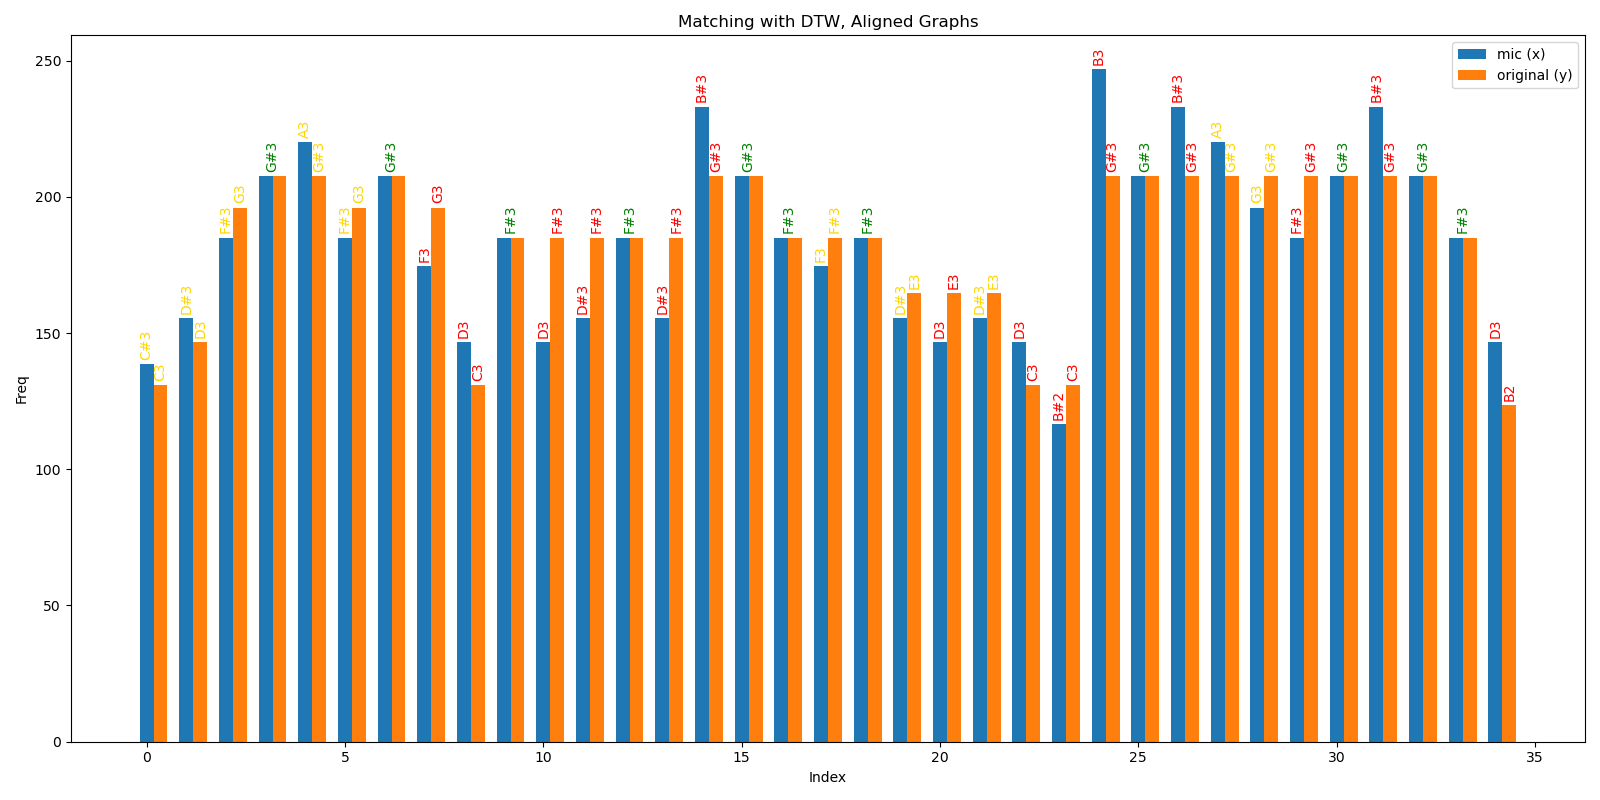
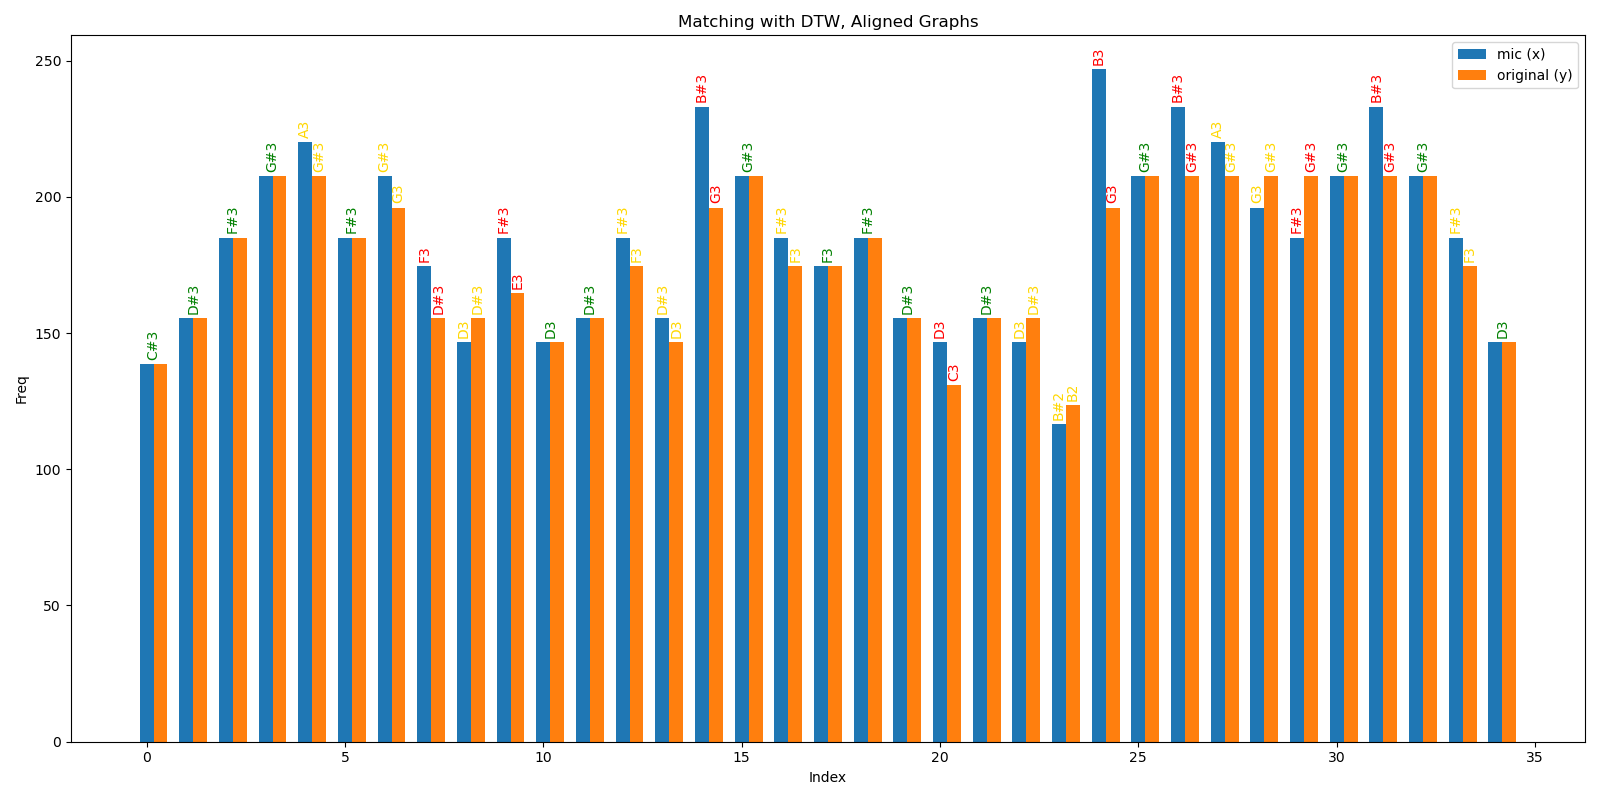
fixed show history bugs

diff --git a/main.py b/main.py
@@ -302,10 +302,10 @@ class OutOfTune:
             # self.rate_mic = int(fileData.sampleRate)
             # self.buffer_size = int(self.rate_mic * fileData.durationToProcess)
 #            self.newMicSOngName = fileData.songName + 'Mic'
-            self.newMicSOngName = fileData.songName + generate_random_id()
+            self.newMicSOngName = fileData.songName + self.dbAccess.getUserIdStr() + generate_random_id()
 
             self.songName = fileData.songName
-            self.origWAVName = fileData.songName.strip('_')[0]
+            self.origWAVName = self.newMicSOngName.split('_')[0]
             dictFromArchivedSong = fileData.notesDict
         elif type(fileData) is str:
             # self.songName = fileData + 'Mic'
@@ -350,11 +350,11 @@ class OutOfTune:
 
                 dtwElements, score = compare2Songs(self.getFreqsAndTimeFromSong(archivedSongName), freqsAndTime)
                 performanceId = micSongName[-10:]
-                songName = micSongName[:-10]
+                songNameWithUserName = micSongName[:-10]
 
                 dtw_lst = list(dtwElements.keys())
                 str_dtw_lst = [(str(element[0]), str(element[1])) for element in dtw_lst]
-                self.dbAccess.add_performance_for_existing_user_and_song(freqsAndTime, songName,
+                self.dbAccess.add_performance_for_existing_user_and_song(freqsAndTime, songNameWithUserName,
                                                                          performanceId, str_dtw_lst, score)
                 self.hearClips(dtwElements)
 
@@ -517,7 +517,7 @@ class OutOfTune:
 
     def read_from_wav(self, fileName, printGraph, saveFile):
         try:
-            songName = fileName.split('/')[-1].split('.')[0] + self.dbAccess.getUserIdStr()
+            songName = fileName.split('/')[-1].split('.')[0]
             sr, y = wavfile.read(fileName)
 
             seconds, frequency, confidence, _ = self.runCrepePrediction(y, sr)
@@ -618,10 +618,11 @@ class OutOfTune:
             songName = songsDict[songNumOrStr]
         else:
             songName = songNumOrStr
-        if songName.lower() == 'none' or songName == '':
+        songNameWithoutUserName = songName.split('_')[0]
+        if songName.lower() == 'none' or songNameWithoutUserName == '':
             return None
-        if checkIfSongDataExists(songName) and self.dbAccess.checkIfSongDataExists(songName):
-            fileData = getSongData(songName, False, self)
+        if checkIfSongDataExists(songNameWithoutUserName) and self.dbAccess.checkIfSongDataExists(songName):
+            fileData = getDataFromFile(songNameWithoutUserName)
             return fileData
         else:
             print("Song does not exists!")
@@ -683,6 +684,9 @@ class OutOfTune:
     def fetchAllPerformances(self, songName):
         return self.dbAccess.fetchPerformancesFromUser(songName)
 
+    def fetchAllSongsForUser(self):
+        return self.dbAccess.fetchSongsFromUser()
+
     def compareOldSongs(self, archivedName, performanceObject):
         performanceId = performanceObject["_id"]
         performanceSongName = performanceObject["song_name"] + performanceId
@@ -693,11 +697,13 @@ class OutOfTune:
         dtw_path = [(int(x[0]), int(x[1])) for x in dtw_path_str]
         performanceFreqsAndSeconds = performanceObject["performance_notes_dict"]
 
-        x = [float(x) for x in performanceFreqsAndSeconds.values()]
-        xTime = [float(x) for x in performanceFreqsAndSeconds.keys()]
-        y = [x for x in origFreqsAndSeconds.values()]
-        yTime = [x for x in origFreqsAndSeconds.keys()]
+        y = np.array([float(x) for x in performanceFreqsAndSeconds.values()])
+        yTime = [float(x) for x in performanceFreqsAndSeconds.keys()]
+        x = np.array([x for x in origFreqsAndSeconds.values()])
+        xTime = [x for x in origFreqsAndSeconds.keys()]
 
+        self.origWAVName = archivedName
+        self.newMicSOngName = performanceSongName
         alignedDTWBarPlot(x, y, dtw_path)
 
         infoDict = {}
@@ -713,23 +719,23 @@ class OutOfTune:
         return dataFile.notesDict
 
 
-def getSongData(file, printBool, oot1):
-    songName = file.split('.')[0]
+    def getSongData(self, file, printBool, oot1):
+        songName = file.split('.')[0]
 
-    # If the song hadn't been analyzed
-    #if not oot1.dbAccess.checkIfSongDataExists(songName):
-    # if not checkIfSongDataExists(songName):
-    #     wavPath = getSongWavPath(file)
-    #     oot1.read_from_wav(wavPath, printBool, True)
-    #     oot1.dbAccess.addSongForUser(songName)
+        # If the song hadn't been analyzed
+        #if not oot1.dbAccess.checkIfSongDataExists(songName):
+        # if not checkIfSongDataExists(songName):
+        #     wavPath = getSongWavPath(file)
+        #     oot1.read_from_wav(wavPath, printBool, True)
+        #     oot1.dbAccess.addSongForUser(songName)
 
-    wavPath = getSongWavPath(file)
-    oot1.read_from_wav(wavPath, printBool, True)
-    oot1.dbAccess.addSongForUser(songName)
+        wavPath = getSongWavPath(file)
+        oot1.read_from_wav(wavPath, printBool, True)
+        oot1.dbAccess.addSongForUser(songName + self.dbAccess.getUserIdStr())
 
-    fileData = getDataFromFile(songName)
-    print("Got data from file")
-    return fileData
+        fileData = getDataFromFile(songName)
+        print("Got data from file")
+        return fileData
 
 
 def listToString(freqList):

diff --git a/db_persistence_layer.py b/db_persistence_layer.py
@@ -103,9 +103,9 @@ def fetch_user_performance(db, performance_id):
     # Dan: this object is for the user-performances-table (which is inside the OOT_database, which is inside the OOT_Cluster, which is inside MongoDB)
     user_performances = db.user_performances
     # Dan: here we fetch a user_performance from the 'user_performances' collection
-    print('\n### FETCHING: Fetching ID #', performance_id, ' from  table user_performances ...')
+    #print('\n### FETCHING: Fetching ID #', performance_id, ' from  table user_performances ...')
     fetched_data = user_performances.find_one({"_id": performance_id})
-    print('\n### FETCHED: successfuly fetched the following - ', fetched_data)
+    #print('\n### FETCHED: successfuly fetched the following - ', fetched_data)
     return fetched_data
 
 def does_user_exist(db, user_id):
@@ -121,9 +121,9 @@ def does_user_exist(db, user_id):
 
 def fetch_every_song_sang_by_user(db, user_id):
     songs_of_user = db.songs_of_user
-    print('\n### FETCHING: Fetching every song sang by', user_id, '...')
+    #print('\n### FETCHING: Fetching every song sang by', user_id, '...')
     fetched_data = list(songs_of_user.find({"_id": {"$regex": '_' + user_id}}))
-    print('\n### FETCHED: successfuly fetched every song which was sang by', user_id, ':\n', fetched_data)
+    #print('\n### FETCHED: successfuly fetched every song which was sang by', user_id, ':\n', fetched_data)
     return fetched_data
 
 
@@ -133,11 +133,11 @@ def fetch_every_user_performance(db, song_name, user_id):
     songs_of_user = fetch_song_of_user(db, fetch_id)
     performances_ids = songs_of_user['user_performances_id_list']
     fetched_data = []
-    print('\n### FETCHING: Fetching every performance of', song_name, 'sang by', user_id, '...')
+    #print('\n### FETCHING: Fetching every performance of', song_name, 'sang by', user_id, '...')
     for performance_id in performances_ids:
         fetched_data.append(user_performances.find_one({"_id": performance_id}))
-    print('\n### FETCHED: successfuly fetched every performance for', song_name, 'sang by', user_id, ':\n',
-          fetched_data)
+    #print('\n### FETCHED: successfuly fetched every performance for', song_name, 'sang by', user_id, ':\n',
+    #      fetched_data)
     return fetched_data
 
 # ------------------------------ EXAMPLE OF USAGE: ---------------------------------------------------------------------------------------

diff --git a/filesAccess.py b/filesAccess.py
@@ -48,9 +48,9 @@ def printAvailableSongs(db):
     dictSongs = dict()
     filesInFolder = [name[:-4] for name in os.listdir(PATH) if name.endswith('.txt')]
     filesInDb = db.getSongsNameList()
-    resultList = list(set(filesInFolder) & set(filesInDb))
+    #resultList = list(set(filesInFolder) & set(filesInDb))
     #for number, file_name in enumerate(os.listdir(PATH)):
-    for number, file_name in enumerate(resultList):
+    for number, file_name in enumerate(filesInDb):
 
         songStr = file_name
         print(f'{number}) {songStr}')
@@ -210,11 +210,13 @@ class DBAccess:
 
     def addSongForUser(self, songName):
         try:
-            db_add_new_song_for_existing_user(self.db, self.userId, songName + '_' + self.userId)
+            db_add_new_song_for_existing_user(self.db, self.userId, songName)
         except:
             print("Already in db")
+
     def fetchSongsFromUser(self):
-        return fetch_user_from_db(self.db, self.userId)
+        return fetch_every_song_sang_by_user(self.db, self.userId)
+        #return fetch_user_from_db(self.db, self.userId)
 
 
     def checkIfSongDataExists(self, songName):
@@ -229,9 +231,9 @@ class DBAccess:
 
     def add_performance_for_existing_user_and_song(self, secondsFreqsDict, songName, performanceId, dtw_lst, score):
 
-        perfromance_dtw_id = songName + self.getUserIdStr()
+        performance_dtw_id = songName
         freqsAndTimeStr = self.convertDictToStr(secondsFreqsDict)
-        db_add_performance_for_existing_user_and_song(self.db, perfromance_dtw_id, performanceId, songName,
+        db_add_performance_for_existing_user_and_song(self.db, performance_dtw_id, performanceId, songName,
                                                       freqsAndTimeStr, dtw_lst, score)
 
 

diff --git a/tempScreen.py b/tempScreen.py
@@ -1,18 +1,24 @@
-from main import OutOfTune, getSongData
+from main import OutOfTune
 from filesAccess import *
 
 
 def getHistory(oot1):
-    songName = input("Enter the name of the song you want to see: ")
+    allSongs = oot1.fetchAllSongsForUser()
+    songsDict = {}
+    for num, song in enumerate(allSongs):
+        songsDict[num] = song
+        print(f'{num}) {songsDict[num]["_id"]}')
+
+    songNum = int(input("Enter the number of the song you want to see: "))
+    songName = songsDict[songNum]["_id"].split('_')[0]
     result = oot1.fetchAllPerformances(songName)
     resultDict = {}
     for num, performance in enumerate(result):
         resultDict[num] = performance
-        #print(f'{num}) Score: {performance["score"]}')
-        print(f'{num}) Score: {performance["song_name"]}')
+        print(f'{num}){songName}, Score: {performance["score"]}')
+        #print(f'{num}) Score: {performance["song_name"]}')
     performanceChosenIndex = int(input("\nSelect specific Performance: "))
 
-    songName = songName.split('_')[0]
     oot1.compareOldSongs(songName, resultDict[performanceChosenIndex])
 
 
@@ -43,7 +49,7 @@ def analyzeNewSong(oot1):
         return
 
     nameWithWav = res + '.wav'
-    getSongData(nameWithWav, True, oot1)
+    oot1.getSongData(nameWithWav, True, oot1)
 
 
 def deleteSong(oot1, option):
